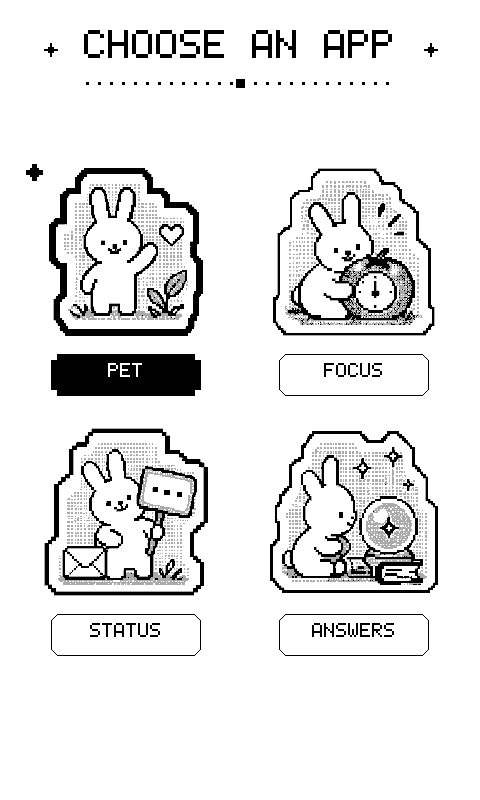
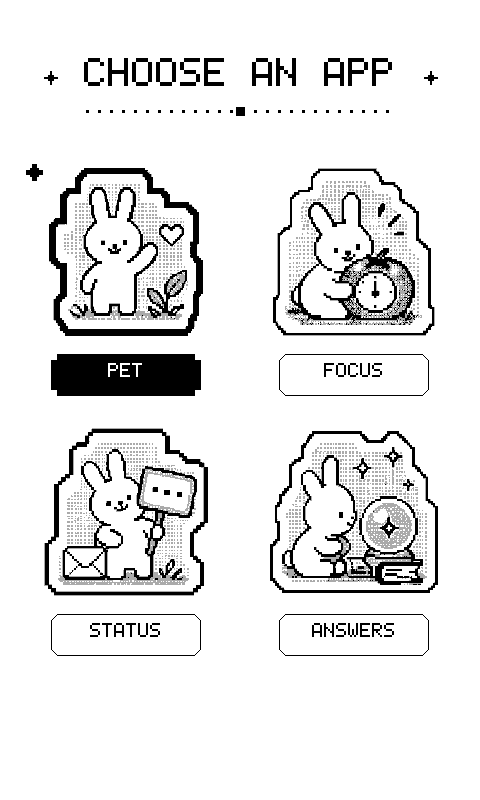
refactor: center portrait launcher title

diff --git a/src/ui/app_pages.cpp b/src/ui/app_pages.cpp
@@ -238,19 +238,23 @@ bool contains(const LauncherCard &card, int x, int y)
 void app_page_render_launcher(Canvas &canvas, StickyAppId current_app)
 {
     canvas.clear(GrayLevel::White);
+    const bool portrait = canvas.height() > canvas.width();
+    const int title_y = portrait ? 58 : 30;
+    const int sparkle_y = portrait ? 77 : 49;
+    const int divider_y = portrait ? 110 : 82;
     draw_centered_text(canvas,
                        canvas.width() / 2,
-                       30,
+                       title_y,
                        "CHOOSE AN APP",
                        4);
     constexpr int title_sparkle_offset = 190;
     draw_title_sparkle(canvas,
                        canvas.width() / 2 - title_sparkle_offset,
-                       49);
+                       sparkle_y);
     draw_title_sparkle(canvas,
                        canvas.width() / 2 + title_sparkle_offset,
-                       49);
-    draw_title_divider(canvas, 82);
+                       sparkle_y);
+    draw_title_divider(canvas, divider_y);
     const auto cards = launcher_cards(canvas.width(), canvas.height());
     for (const LauncherCard &card : cards) {
         draw_card(canvas, card, current_app);

diff --git a/design-qa.md b/design-qa.md
@@ -41,6 +41,12 @@ The actual-size full views keep the four illustrations and all labels legible, s
 - Fix: moved the first portrait row down 40 pixels and the second row up 40 pixels, preserving equal label spacing and a 16-pixel non-interactive gap between the touch tracks.
 - Post-fix evidence: `assets/app_launcher/qa/comparison.png` shows the compact centered portrait group while the landscape layout remains unchanged.
 
+### Iteration 3
+
+- Finding: P2, the portrait title group remained close to the top edge after the entry grid moved toward the center, leaving the upper page rhythm disconnected.
+- Fix: moved the portrait title, both title sparkles, and the dotted divider down 28 pixels as one unit. The landscape title coordinates remain unchanged.
+- Post-fix evidence: `assets/app_launcher/qa/comparison.png` shows the title and 2 x 2 entry grid reading as one centered portrait composition.
+
 ## Findings
 
 No actionable P0, P1, or P2 differences remain.
